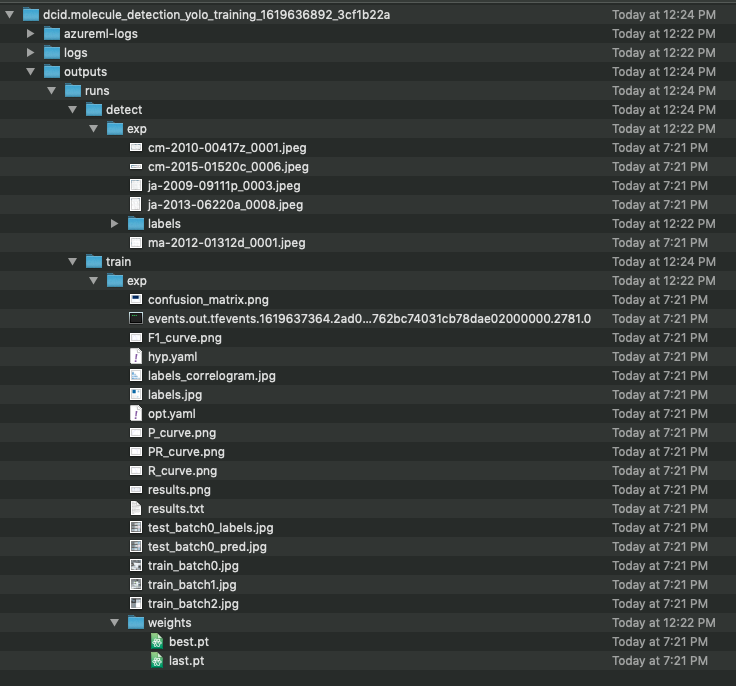
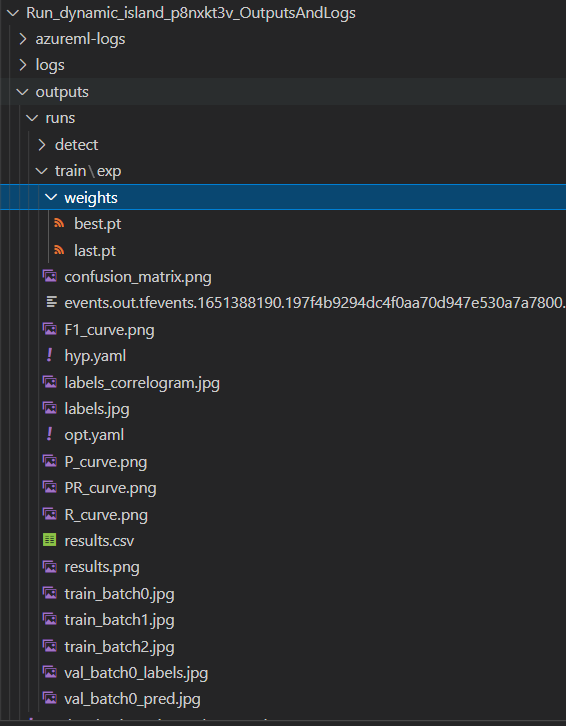
Updates to part 4

Changed region(s): [[0.0, 0.0, 1.0, 0.9796]]

diff --git a/README.md b/README.md
@@ -495,11 +495,11 @@ Now, you are ready to download the results (including training weights and infer
 
 <img src="./images/check_log_and_download_ouput_step3.png" style="height: 90%; width: 90%;"/>
 
-Choose the same folder ```MSE544_yolo_training``` for downloading the file, and unzip it. You will obtain a folder called ```ExperimentRun```:
+Choose the same folder ```MSE544_yolo_training``` for downloading the file (named ``Run_<run_name>_OutputsAndLogs.zip``), and unzip it. You will obtain a folder called ```Run_<Run_name>_OutputsAndLogs```:
 
 <img src="./images/check_results_step1.png" style="height: 90%; width: 90%;"/>
 
-Go into that folder, and you can explore all the training and detection results. Within the ```train``` folder, there are plots of images with labels and metrics throughout the training. Most importantly there are ```weights``` resulting from the training that can be used for inference or more trainings in the future. Within the ```detect``` folder, there are plots of images with predicted labels and also the labels files for each image if you used ```--save-txt``` in your inference command.
+Go into that folder, then to the ``outputs/runs`` subfolder, and you can explore all the training and detection results. Within the ```train``` folder, there are plots of images with labels and metrics throughout the training. Most importantly there are ```weights``` resulting from the training that can be used for inference or more trainings in the future. Within the ```detect``` folder, there are plots of images with predicted labels and also the labels files for each image if you used ```--save-txt``` in your inference command.
 
 <img src="./images/check_results_step2.png" style="height: 90%; width: 90%;"/>
 
@@ -509,19 +509,19 @@ For example, one of the inference results, ```cm-2010-00417z_0001.jpeg```, is sh
 
 ## Part 4. Inference using with YoloV5 weights on your local machine <a name="part4"></a>
 
-Open your terminal, navigate to folder ```MSE544_yolo_training```. Copy the best weights (from file ```best.pt```) you got from the cloud to ```./yolov5/weights/```, and rename it as ```molecule_detection.pt```. Make sure to replace ```<exp-id>``` with the runId that you want to use
+Open your terminal, navigate to folder ```MSE544_yolo_training```. Copy the best weights (from file ```best.pt```) you got from the cloud to the current directory, and rename it as ```molecule_detection.pt```. Make sure to replace ```<RunName>``` with the name of the experiment run that you want to use.
 ```
-cp ./ExperimentRun/<exp-id>/outputs/runs/train/weights/best.pt ./yolov5/weights/molecule_detection.pt
-```
-
-To run an inference, simply use the same command you used in your script, specifying where to find the weights and images on which you want to detect molecules:
-```
-python3 ./yolov5/detect.py --weights ./yolov5/weights/molecule_detection.pt --iou 0.05 --save-txt --source ./molecule_images/test/images 
+cp ./Run_<RunName>_OutputsAndLogs/outputs/runs/train/exp/weights/best.pt ./molecule_detection.pt
 ```
 
-Note that you can switch to different models by changing the weight file after ```--weights``` and different testsets by changing the image source folder after ```--source```.
+To run an inference, simply use the same command you used in your script, specifying where to find the weights and images on which you want to detect molecules. Make sure you have activated your yolov5 conda environment.Depending on your setup, you may need to use command ``python3`` or ``python``.
+```
+python ./yolov5/detect.py --weights molecule_detection.pt --iou 0.05 --save-txt --source ./molecule_images/test/images 
+```
 
-The results of your inference will be located at ```./runs/detect/exp<id>```, and checking results will be the same as the instructions of part 3 step D.
+Note that you can switch to different models by changing the weight file after ```--weights``` and different test sets by changing the image source folder after ```--source```.
+
+The results of your inference will be located at ```./yolov5/runs/detect/exp```, and checking results will be the same as the instructions of part 3 step D.
 
 ## Reference and Further Reading <a name="reference"></a>
 
